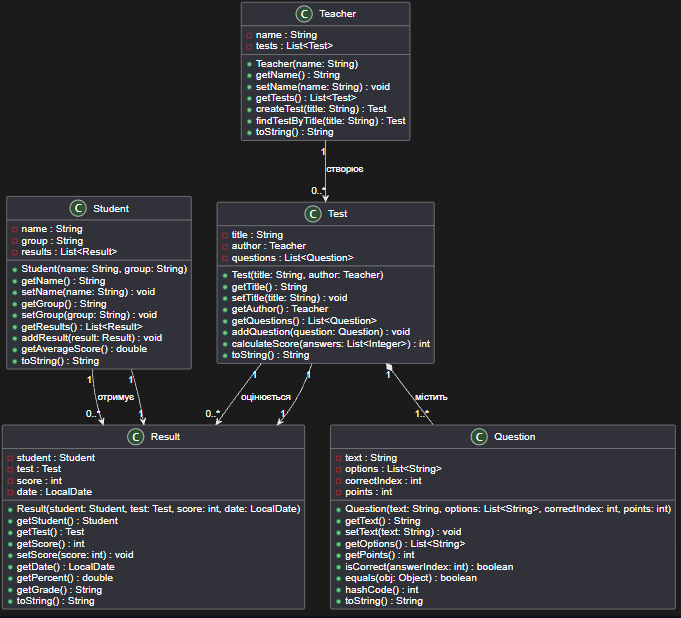
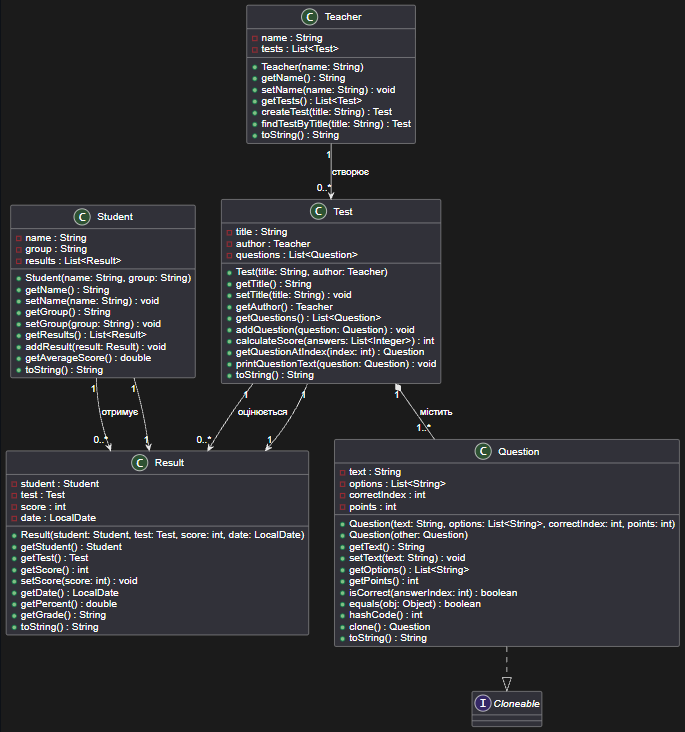
Створення структури проекту та класів.

diff --git a/src/ua/edu/op/nkpk/model/Test.java b/src/ua/edu/op/nkpk/model/Test.java
@@ -77,7 +77,39 @@ public class Test {
             questions.add(question);
         }
     }
+    /**
+     * Повертає питання за індексом, конвертуючи список питань у масив
+     * та звертаючись до його елемента. Обробляє вихід за межі масиву.
+     *
+     * @param index індекс питання, яке потрібно отримати
+     * @return питання за вказаним індексом або {@code null}, якщо індекс некоректний
+     */
+    public Question getQuestionAtIndex(int index) {
+        Question[] questionsArray = questions.toArray(new Question[0]);
+        try {
+            return questionsArray[index];
+        } catch (ArrayIndexOutOfBoundsException e) {
+            System.err.println("Помилка: вихід за межі масиву. "
+                    + "Допустимі індекси: від 0 до " + (questionsArray.length - 1)
+                    + ", отримано індекс: " + index);
+            return null;
+        }
+    }
 
+    /**
+     * Виводить у консоль текст переданого питання.
+     * Обробляє ситуацію, коли передано {@code null} замість питання.
+     *
+     * @param question питання, текст якого потрібно вивести
+     */
+    public void printQuestionText(Question question) {
+        try {
+            System.out.println("Текст питання: " + question.getText());
+        } catch (NullPointerException e) {
+            System.err.println("Помилка: об'єкт класу Question відсутній (null). "
+                    + "Неможливо отримати текст питання.");
+        }
+    }
     /**
      * Підраховує кількість правильних відповідей студента.
      * Для кожної неправильної відповіді виводить повідомлення в консоль.

diff --git a/src/ua/edu/op/nkpk/Main.java b/src/ua/edu/op/nkpk/Main.java
@@ -27,6 +27,10 @@ public class Main {
         Result result = new Result(student, test, score, LocalDate.now());
         student.addResult(result);
 
+        test.printQuestionText(q1);
+        test.printQuestionText(null);
+        System.out.println("Питання за індексом 0: " + test.getQuestionAtIndex(0));
+        System.out.println("Питання за індексом 10 (помилковий): " + test.getQuestionAtIndex(10));
         System.out.println("q1.equals(q2): " + q1.equals(q2));
         System.out.println("q1.hashCode() == q2.hashCode(): " + (q1.hashCode() == q2.hashCode()));
         System.out.println(result);

diff --git a/README.md b/README.md
@@ -21,4 +21,4 @@ StudyTest
 - https://github.com/ajaymahadeven/Quizzy-App
 
 ## Концептуальна діаграма класів
-![img_1.png](img_1.png)
+![img.png](img.png)
